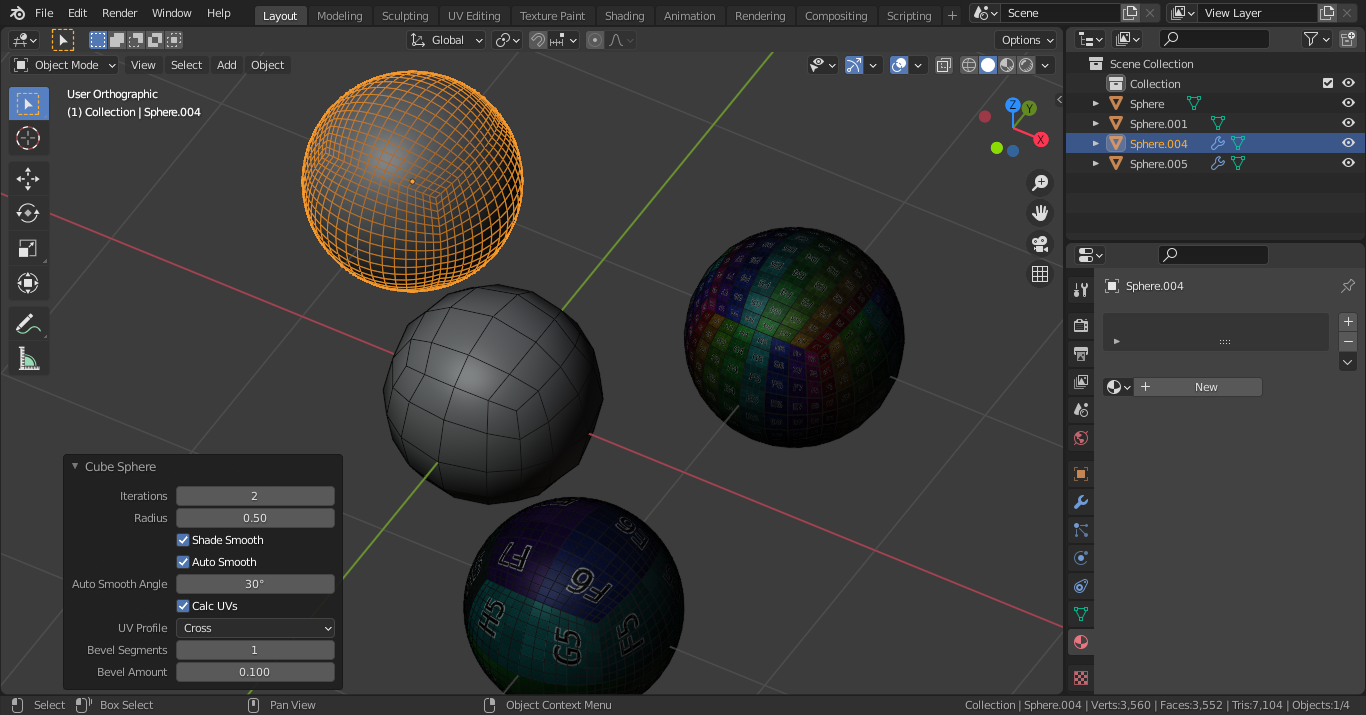
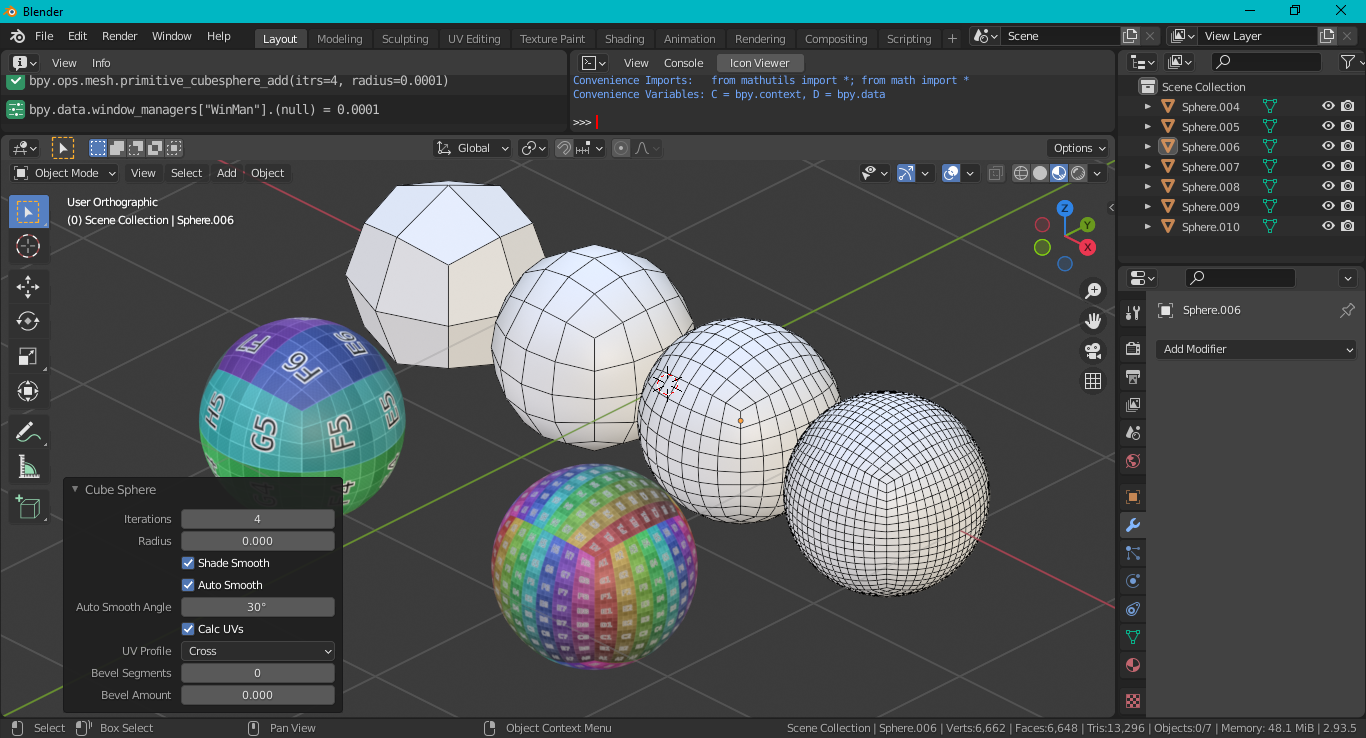
Updated cube to sphere algorithm
Also updated screen shot. Included link to algorithm in readme.

diff --git a/cube_sphere.py b/cube_sphere.py
@@ -156,13 +156,29 @@ class ObjMesh:
 
         for i in i_range:
             v = self.vs[i]
-            mag_sq = v[0] ** 2 + v[1] ** 2 + v[2] ** 2
-            if mag_sq > 0.0:
-                mag_inv = mag_sq ** -0.5
-                rad_m_inv = verif_rad * mag_inv
-                self.vs[i] = (rad_m_inv * v[0],
-                              rad_m_inv * v[1],
-                              rad_m_inv * v[2])
+            x = v[0]
+            y = v[1]
+            z = v[2]
+
+            xsq = x * x
+            ysq = y * y
+            zsq = z * z
+
+            xsq_2 = xsq * 0.5
+            ysq_2 = ysq * 0.5
+            zsq_2 = zsq * 0.5
+
+            one_third = 0.3333333333333333
+            xn = x * ((1.0 - (ysq_2 + zsq_2)
+                + ysq * zsq * one_third) ** 0.5)
+            yn = y * ((1.0 - (zsq_2 + xsq_2)
+                + zsq * xsq * one_third) ** 0.5)
+            zn = z * ((1.0 - (xsq_2 + ysq_2)
+                + xsq * ysq * one_third) ** 0.5)
+
+            self.vs[i] = (verif_rad * xn,
+                          verif_rad * yn,
+                          verif_rad * zn)
 
         return self
 
@@ -233,8 +249,8 @@ class ObjMesh:
 bl_info = {
     "name": "Create Cube Sphere",
     "author": "Jeremy Behreandt",
-    "version": (0, 1),
-    "blender": (2, 91, 0),
+    "version": (0, 2),
+    "blender": (2, 93, 5),
     "category": "Add Mesh",
     "description": "Creates a hard surface modeling friendly Cube Sphere.",
     "tracker_url": "https://github.com/behreajj/Cube-Sphere/"

diff --git a/README.md b/README.md
@@ -2,7 +2,7 @@
 
 ![Screen Capture](screenCap.png)
 
-Blender add-on to create a hard surface modeling friendly cube sphere.
+Blender add-on to create a hard surface modeling friendly cube sphere. Maps points on a cube to that on a sphere using the algorithm described [here](https://math.stackexchange.com/questions/118760/can-someone-please-explain-the-cube-to-sphere-mapping-formula-to-me).
 
 To install, go to `Edit > Preferences > Add-ons`, then click the `Install` button and select the `cube-sphere.py` file. To add a sphere, go to `Add > Mesh > Cube Sphere` while in object mode.
 
